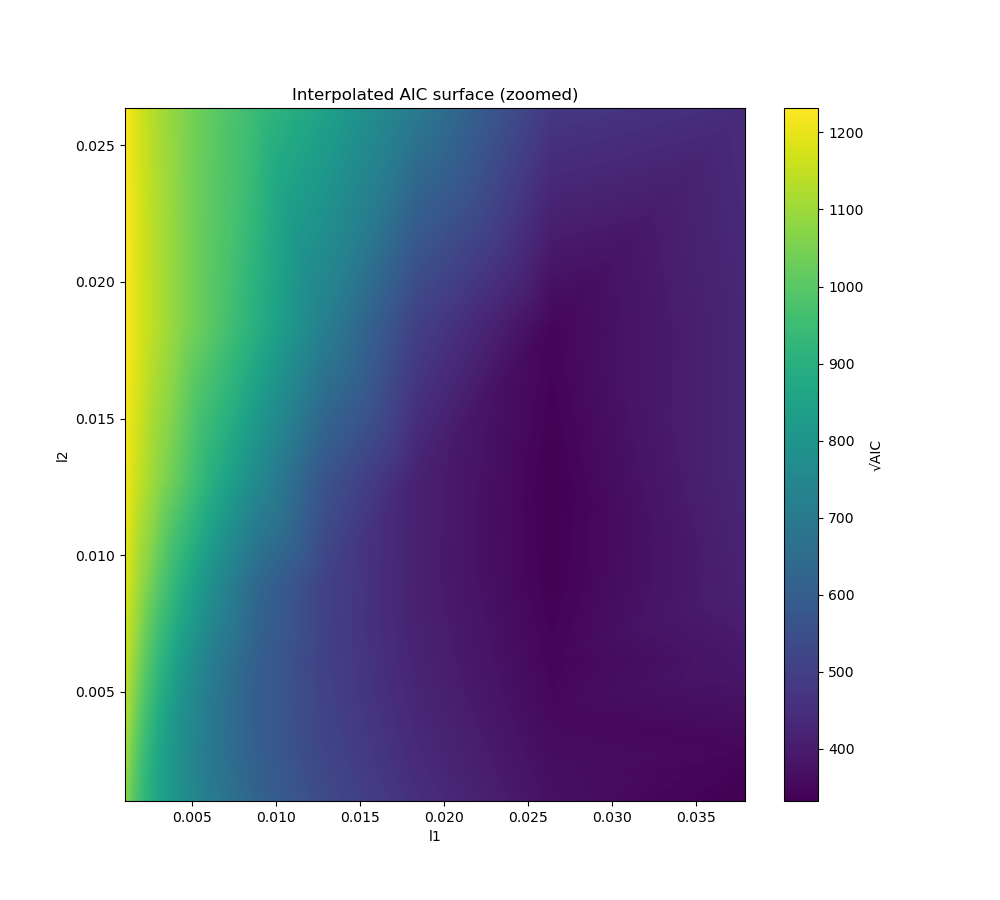
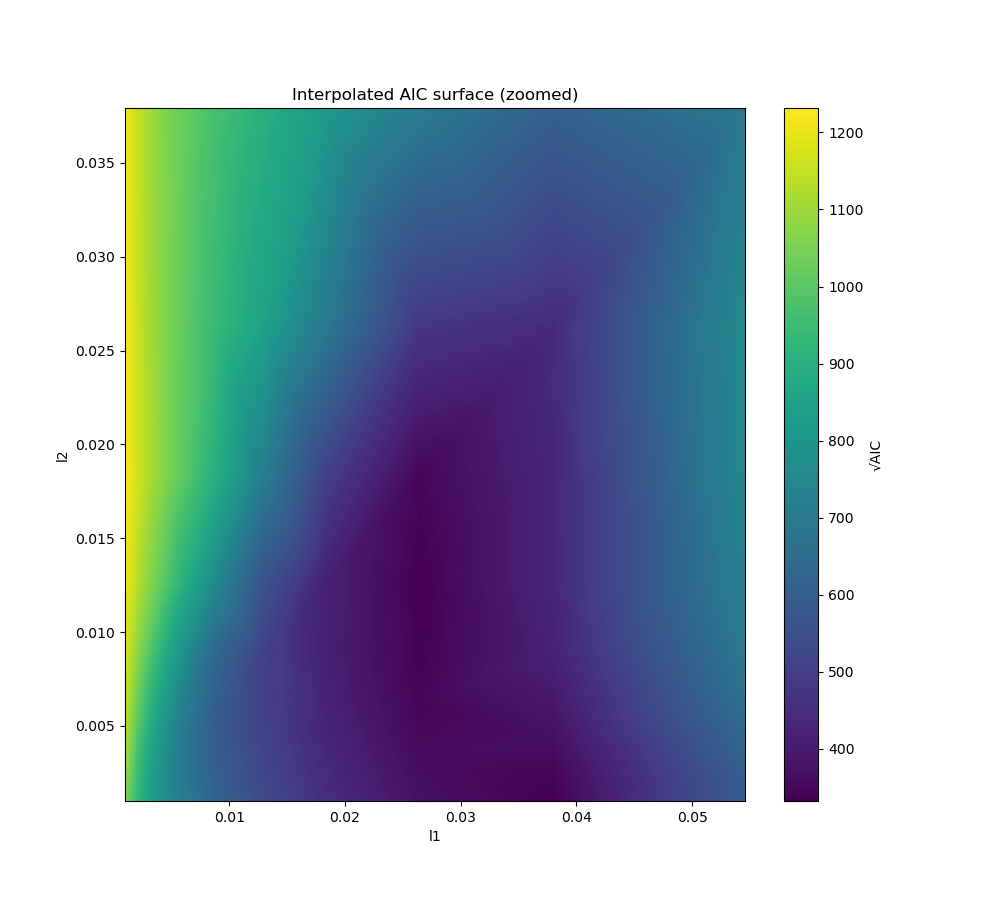
agaiin

diff --git a/smoking-networks/analysis-versions/version001/analysis/002.2-analyze-aics.py b/smoking-networks/analysis-versions/version001/analysis/002.2-analyze-aics.py
@@ -81,6 +81,6 @@ plot_grid(res,'√AIC','Interpolated AIC surface','results/002/AIC-grid.png')
 plot_grid(res.iloc[(res.l1.values<.08) & (res.l2.values <.1) , :], '√AIC','Interpolated AIC surface (zoomed)','results/002/zoomed-AIC-grid.png')
 
 # look at area where AIC small again
-plot_grid(res.iloc[(res.l1.values<.05) & (res.l2.values <.03) , :], 
+plot_grid(res.iloc[(res.l1.values<.06) & (res.l2.values <.04) , :], 
     '√AIC','Interpolated AIC surface (zoomed)','results/002/2x-zoomed-AIC-grid.png')
 
